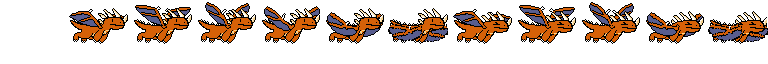
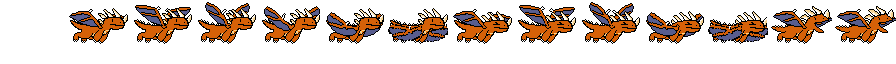
fire ball added

diff --git a/src/Play.js b/src/Play.js
@@ -1,17 +1,21 @@
 class Play extends Phaser.Scene {
     constructor() {
         super("playScene");
+        this.Gaming = true;
     }
 
     init() {
+        // this.gaming = true;
         this.gameSpeed = 0;
         this.score = 0;
         this.PLAYER_VELOCITY = 200;
         this.playerBullets;
+        this.BULLET_SPEED = 500;
     }
 
     create() {
         this.cursors = this.input.keyboard.createCursorKeys();
+        this.spaceKey = this.input.keyboard.addKey(Phaser.Input.Keyboard.KeyCodes.SPACE);
         this.bgm = this.sound.add('BGM', {
             mute: false,
             volume: 1,
@@ -20,6 +24,34 @@ class Play extends Phaser.Scene {
         });
         // this.bgm.play();
 
+        this.anims.create({
+            key: 'BAAA',
+            frameRate: 0,
+            repeat: -1,
+            frames: this.anims.generateFrameNumbers('Player', {
+                start: 12,
+                end: 12
+            })
+        });
+        this.anims.create({
+            key: 'fire_blast',
+            frameRate: 15,
+            repeat: -1,
+            frames: this.anims.generateFrameNumbers('FIRE_BALL', {
+                start: 0,
+                end: 5
+            })
+        });
+
+        this.anims.create({
+            key: 'GGs',
+            frameRate: 0,
+            repeat: -1,
+            frames: this.anims.generateFrameNumbers('Player', {
+                start: 0,
+                end: 0
+            })
+        });
         this.anims.create({
             key: 'chilling',
             frameRate: 5,
@@ -32,11 +64,11 @@ class Play extends Phaser.Scene {
 
         this.anims.create({
             key: 'going-down',
-            frameRate: 2,
+            frameRate: 1,
             repeat: -1,
             frames: this.anims.generateFrameNumbers('Player', {
                 start: 3,
-                end: 5
+                end: 4
             })
         });
 
@@ -52,7 +84,7 @@ class Play extends Phaser.Scene {
 
         const PLAYER = () => {
             this.player = this.physics.add.sprite(width / 6, height / 2, 'Player', 1).setScale(3);
-            this.player.setSize(64, 48);
+            this.player.setSize(32, 32).setOffset(16,12);
             this.player.body.setBounce(2);
         };
 
@@ -73,6 +105,28 @@ class Play extends Phaser.Scene {
             fill: '#fff'
         });
     }
+    shootBullet() {
+        if (this.isShooting) return; 
+
+        this.isShooting = true;
+        // const bullet = this.playerBullets.create(this.player.x + 30, this.player.y, '');
+        const bullet = this.playerBullets.create(this.player.x + 30, this.player.y, 'FIRE_BALL',5).setScale(0.25);
+        bullet.play('fire_blast')
+        bullet.setVelocityX(this.BULLET_SPEED);
+        bullet.setCollideWorldBounds(true);
+        bullet.body.onWorldBounds = true;
+        bullet.body.world.on('worldbounds', (body) => {
+            if (body.gameObject === bullet) {
+                bullet.destroy();
+            }
+        });
+
+        // Play fire_blast animation
+        this.player.play('BAAA');
+        this.time.delayedCall(300, () => { // 300ms cooldown (adjust as needed)
+            this.isShooting = false;
+        }, [], this);
+    }
 
     update() {
         this.VOID.tilePositionX += 1 + (1 * this.gameSpeed);
@@ -83,31 +137,33 @@ class Play extends Phaser.Scene {
         let playerVector = new Phaser.Math.Vector2(0, 0);
         playerVector.y = 0.01;
 
-        if (this.cursors.up.isDown) {
-            playerVector.y = -1;
-            this.playerMovement = 'going-up';
-        } else if (this.cursors.down.isDown) {
-            playerVector.y = 1;
-            this.playerMovement = 'going-down';
-        } else {
-            this.playerMovement = 'chilling';
+        if (!this.isShooting) { 
+            if (this.cursors.up.isDown) {
+                playerVector.y = -1;
+                this.playerMovement = 'going-up';
+            } else if (this.cursors.down.isDown) {
+                playerVector.y = 1;
+                this.playerMovement = 'going-down';
+            } else {
+                this.playerMovement = 'chilling';
+            }
+
+            this.player.play(this.playerMovement, true);
         }
 
         this.player.setVelocity(this.PLAYER_VELOCITY * 0, this.PLAYER_VELOCITY * playerVector.y);
-        this.player.play(this.playerMovement, true);
+
+        if (Phaser.Input.Keyboard.JustDown(this.spaceKey)) {
+            this.shootBullet();
+        }
 
         this.score += 0.05 + this.gameSpeed;
         this.scoreText.setText('Score: ' + Math.floor(this.score));
         this.gameSpeed += 0.00025;
-    }
 
-    hitEnemy(bullet, enemy) {
-        // Destroy the bullet and enemy on collision
-        bullet.destroy();
-        enemy.destroy();
-
-        // Increase score
-        this.score += 10;
-        this.scoreText.setText('Score: ' + this.score);
+        if (!this.Gaming) {
+            this.Gaming = true;
+            this.scene.start('gameOver', { score: this.score });
+        }
     }
 }

diff --git a/src/Enemies.js b/src/Enemies.js
@@ -4,6 +4,7 @@ class EnemyScene extends Phaser.Scene {
     }
 
     init(data) {
+        this.playScene = this.scene.get('playScene')
         this.player = data.player; 
     }
 
@@ -39,7 +40,8 @@ class EnemyScene extends Phaser.Scene {
             this.sys.game.config.width,
             Phaser.Math.Between(50, this.sys.game.config.height - 50),
             'FROG'
-        ).setScale(2);
+        ).setScale(4);
+        enemy.setSize(16,16);
         enemy.setVelocityX(-100);
 
 
@@ -56,14 +58,69 @@ class EnemyScene extends Phaser.Scene {
             }
         };
 
+            // enemy.update = () => {
+        //     if (enemy.x == 200) {
+        //         enemy.play('AHH-');
+        //         console.log('AHHH-');
+        //     }
+        //     if (enemy.x < 50) {
+        //         enemy.destroy();
+        //     }
+        // };
+
+        this.time.addEvent({
+            delay: 4000,
+            callback: () => this.shootHomingBullet(enemy),
+            // this.enemy.destroy()
+            callbackScope: this,
+            loop: true
+        });
     }
 
+
+    shootHomingBullet(enemy) {
+        const bullet = this.enemyBullets.create(enemy.x, enemy.y, 'FROG', 2);
+        bullet.setScale(0.5);
+
+        // Set initial velocity towards the player
+        this.physics.moveToObject(bullet, this.player, 200);
+
+        // Homing duration
+        const homingDuration = 1000; // 2 seconds
+        const startTime = this.time.now;
+
+        bullet.update = () => {
+            const currentTime = this.time.now;
+
+            // Continue homing if within homing duration
+            if (currentTime - startTime < homingDuration) {
+                this.physics.moveToObject(bullet, this.player, 200);
+            }
+
+            // Destroy bullet if it goes off-screen
+            if (bullet.x < 0 || bullet.x > this.sys.game.config.width ||
+                bullet.y < 0 || bullet.y > this.sys.game.config.height) {
+                bullet.destroy();
+                console.log('GG');
+            }
+        };
+    }
+
+    hitPlayer(bullet, player) {
+        this.playScene.Gaming = false;
+        console.log('Player hit!');
+
+    }
     
 
     update() {
-        this.enemies.getChildren().forEach(enemy => {
-            if (enemy.update) enemy.update();
+        // Update all bullets and enemies for off-screen cleanup
+        this.enemyBullets.getChildren().forEach(bullet => {
+            if (bullet.update && bullet.active) bullet.update();
         });
 
+        this.enemies.getChildren().forEach(enemy => {
+            if (enemy.update && enemy.active) enemy.update();
+        });
     }
 }

diff --git a/src/Gameover.js b/src/Gameover.js
@@ -15,8 +15,8 @@ class GameOver extends Phaser.Scene {
             fontFamily: 'Arial'
         }).setOrigin(0.5);
 
-        // // Show high score
-        this.add.text(width / 2, height / 2 + 50, `High Score: ${this.score}s`, {
+        // // Show high scorethis.scoreText.setText('Score: ' + Math.floor(this.score));
+        this.add.text(width / 2, height / 2 + 50, `High Score: ${Math.floor(this.score)}m`, {
             fontSize: '32px',
             fill: '#00ff00',
             fontFamily: 'Arial'

diff --git a/src/Load.js b/src/Load.js
@@ -22,6 +22,8 @@ class Load extends Phaser.Scene {
             frameWidth: 64});
         this.load.spritesheet('FROG', 'img/frog.png', {
             frameWidth: 64 });
+        this.load.spritesheet('FIRE_BALL', 'img/Fire_Blast.png', {
+            frameWidth: 400 });
         this.load.image('Background', 'img/background.png');
         this.load.image('Floor', 'img/floor.png');
         this.load.image('Foreground', 'img/foreground.png');

diff --git a/src/main.js b/src/main.js
@@ -5,12 +5,6 @@
 
 "use strict"
 
-// let config = {
-    // type: Phaser.AUTO, 
-    // scene: [ MainMenu, Play],
-// }
-
-// let game = new Phaser.Game(config)
 
 let config = {
     type: Phaser.AUTO,
@@ -37,4 +31,4 @@ let borderPadding = borderUISize / 3
 let { height, width } = game.config
 
 // reserve keyboard bindings
-// let keyFIRE, keyRESET, keyLEFT, keyRIGHT
+let keyFIRE, keyRESET, keyLEFT, keyRIGHT
